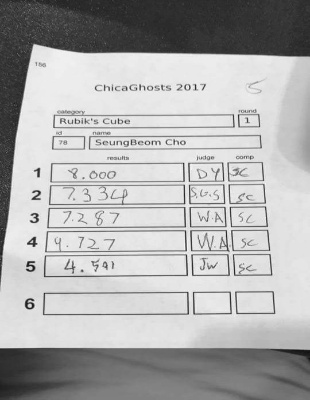
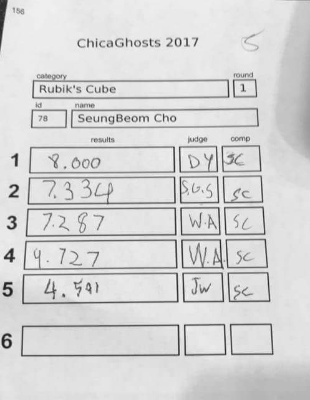
updated preprocessing for better cropping

diff --git a/scanningNeuralNet.py b/scanningNeuralNet.py
@@ -15,6 +15,64 @@ class neuralNet():
 
     def preprocess(self, inputImage):
         currImage = cv2.imread(inputImage)
+
+        #Cropping edges to include only scorecard
+
+        #Top boundary
+        meanRowVal = 0
+        whiteThreshold = 200
+        currentRow = 0
+        while meanRowVal < whiteThreshold:
+            meanRowVal = 0
+            for pixel in range(len(currImage[currentRow])):
+                meanRowVal += sum(currImage[currentRow][pixel])/3 #Mean brightness of each pixel accounting for RGB
+
+            meanRowVal /= len(currImage[currentRow])
+            currentRow += 1
+
+        #Bottom boundary
+        currImage = currImage[currentRow:]
+
+        meanRowVal = 0
+        currentRow = len(currImage)-1
+        while meanRowVal < whiteThreshold:
+            meanRowVal = 0
+            for pixel in range(len(currImage[currentRow])):
+                meanRowVal += sum(currImage[currentRow][pixel])/3 #Mean brightness of each pixel accounting for RGB
+
+            meanRowVal /= len(currImage[currentRow])
+            currentRow -= 1
+
+        currImage = currImage[:currentRow]
+
+        #Right boundary
+        meanColVal = 0
+        currentCol = 0
+        while meanColVal < whiteThreshold:
+            meanColVal = 0
+            for pixel in range(len(currImage)):
+                meanColVal += sum(currImage[pixel][currentCol])/3 #Mean brightness of each pixel accounting for RGB
+
+            meanColVal /= len(currImage)
+            currentCol += 1
+
+        currImage = currImage[:, currentCol:]
+
+        #Left boundary
+        meanColVal = 0
+        currentCol = len(currImage[0])-1
+        while meanColVal < whiteThreshold:
+            meanColVal = 0
+            for pixel in range(len(currImage)):
+                meanColVal += sum(currImage[pixel][currentCol])/3 #Mean brightness of each pixel accounting for RGB
+
+            meanColVal /= len(currImage)
+            currentCol -= 1
+
+        currImage = currImage[:, :currentCol]
+
+
+
         currImage = cv2.cvtColor(currImage, cv2.COLOR_BGR2GRAY)
 
         #Dimensions of scorecard ~310x400
@@ -23,11 +81,11 @@ class neuralNet():
 
         cv2.imwrite((inputImage.replace(".jpg","") + "postProcess.jpg"), currImage)
 
-        #INITIALIZE MODEL IF NOT FOUND IN FOLDERS USING PRIVATAE METHODS
-
 
 
     def generateCascadeDataset(self):
+        #INITIALIZE MODEL IF NOT FOUND IN FOLDERS USING PRIVATAE METHODS
+        
         #Dataset taken from:
         #https://www.kaggle.com/datasets/crawford/emnist
 
@@ -37,7 +95,7 @@ class neuralNet():
         mappings = {}
         for line in mappingsFile:
             line = line.split()
-            mappings.update({int(line[0]): int(line[1])})
+            mappings.update({int(line[0]): int(line[1])}) #Reads mapping file and adds to hashtable/dictionary of mappings
 
 
 
@@ -52,7 +110,7 @@ class neuralNet():
             if i > 100:
                 break
 
-        ele = 75
+        ele = 77
 
         ASCIIVal = mappings[int(EMNIST[ele].pop(0))]
 
@@ -62,7 +120,6 @@ class neuralNet():
 
 
         # creating a plot
-        plt.title("Dasda")
         plt.figure()
         
         # plotting a plot

diff --git a/main.py b/main.py
@@ -2,5 +2,5 @@ from scanningNeuralNet import *
 
 scanNeuralNet = neuralNet()
 
-scanNeuralNet.generateCascadeDataset()
-#scanNeuralNet.preprocess("testCard.jpg")
+#scanNeuralNet.generateCascadeDataset()
+scanNeuralNet.preprocess("testCard.jpg")
